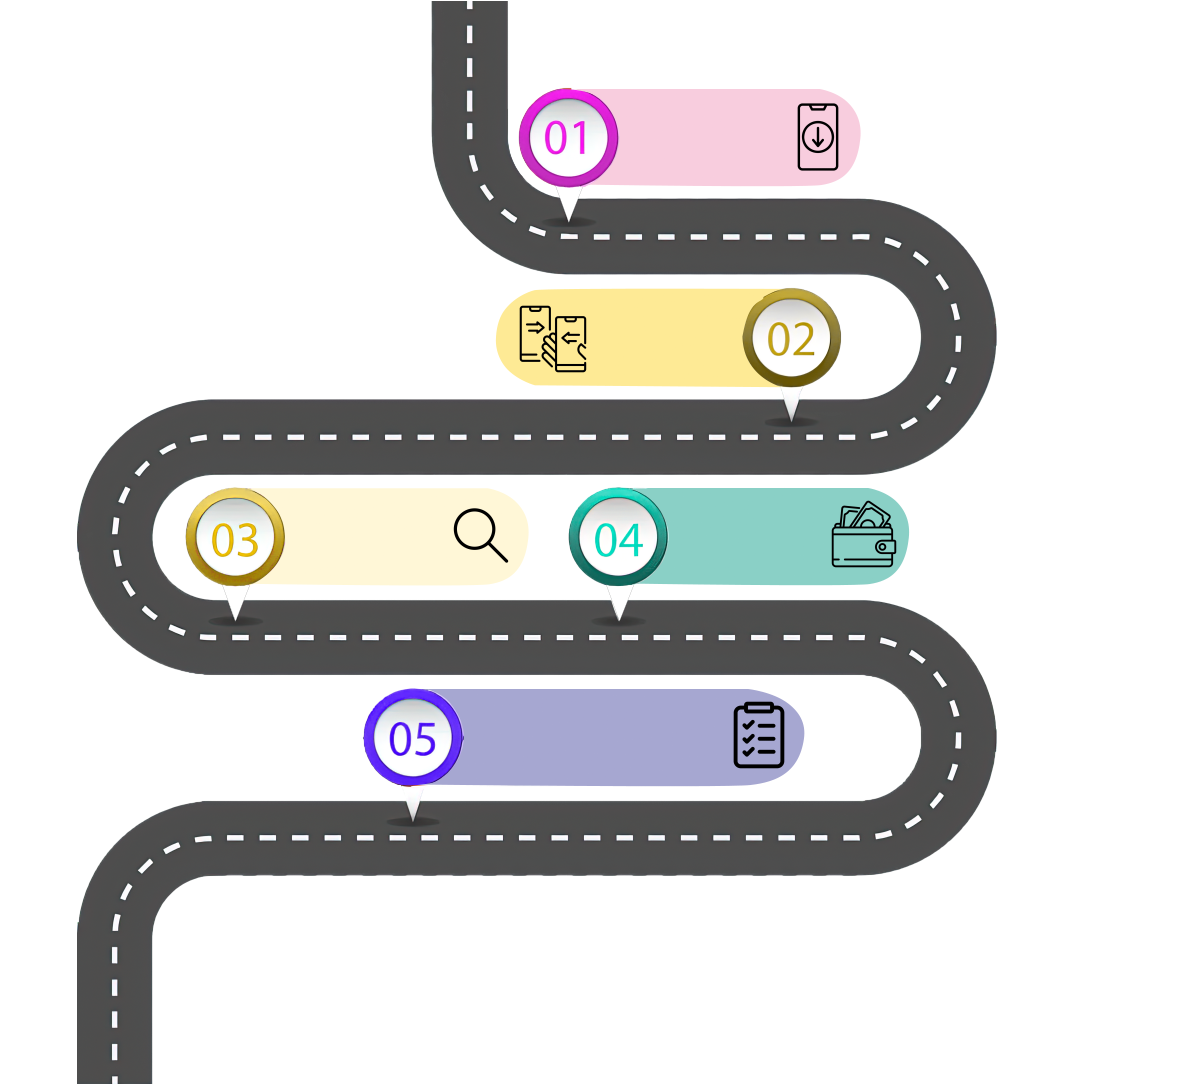
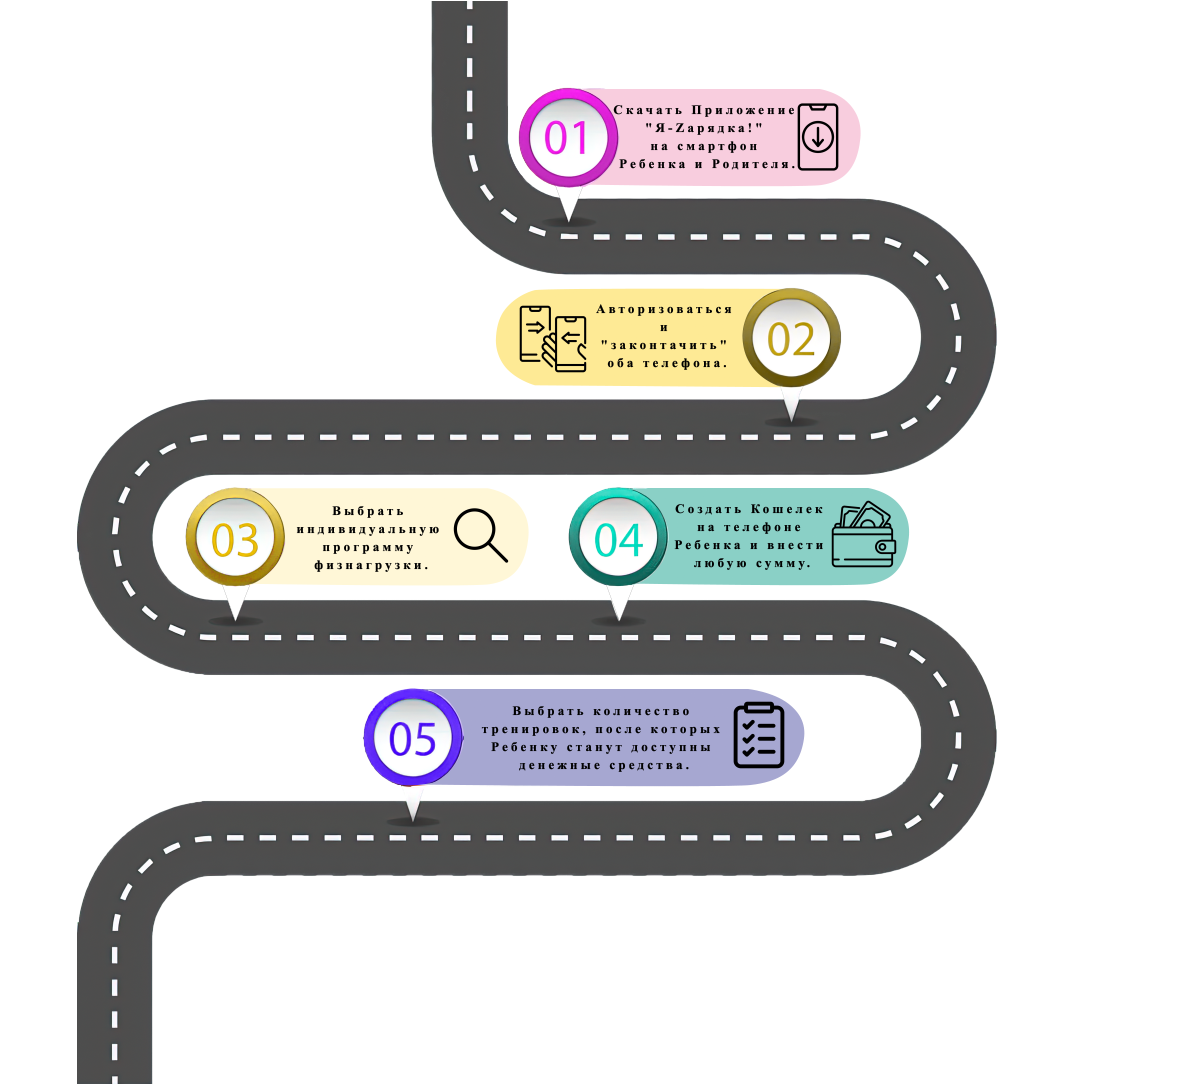
fixed mistackes

diff --git a/index.html b/index.html
@@ -85,16 +85,17 @@
           <div class="col-12 col-sm-6 main__block3-column1">
             <h2 class="main__block3-column1_h2">Давайте карманные деньги</h2>
             <div class="main__block3-column1_italic">просто и с пользой!</div>
-            <div class="main__block3-column1_bold">Приложение проконтролирует и уведомит Вас <br> о выполнении зарядки Вашим ребенком, после <br> чего карманные деньги на день станут доступны.</div>
-            <div class="main__block3-column1_logo"><img src="assets/logo_deti1.png" alt="deti"></div>
+            <div class="main__block3-column1_bold">приложение проконтролирует и уведомит Вас <br> о выполнении зарядки Вашим ребенком, после <br> чего карманные деньги на день станут доступны.</div>
+            <div class="main__block3-column1_logo"><img src="assets/logo_deti.png" alt="deti"></div>
             <div class="main__block3-column1_download">
               <a href="https://www.apple.com/ru/app-store/"><img class="column1_download-app" src="assets/app-store.svg" alt="app_store"></a>
               <a href="https://play.google.com/store/"><img class="column1_download-google" src="assets/google-play.svg" alt="google_play"></a>
             </div>
           </div>
-        <div class="col-12 col-sm-6">
+        <div class="col-12 col-sm-6 main__block3-column2">
           <div class="main__block3-column2_text">Я ХОЧУ ТАКОЕ ПРИЛОЖЕНИЕ, С ЧЕГО НАЧАТЬ?</div>
           <div><img id="road" src="assets/road.png" alt="road"></div>
+          <div><img id="form7" src="assets/form7.png" alt=""></div>
         </div>
       </div>
     </div>
@@ -104,11 +105,11 @@
             <div class="col-lg text-center">
               <img class="description_block_img" src="assets/four_kids.jpg" alt="children" />
             </div>
-            <div class="col-lg align-self-center">
+            <div class="col-lg align-self-center description_block1">
               <h3>Польза зарядки</h3>
-              <p>Безусловную важность для укрепления состояния здоровья ребенка составляет физическая активность. Она
+              <p class="description_block_text">Безусловную важность для укрепления состояния здоровья ребенка составляет физическая активность. Она
                 влияет на формирование всех систем организма, укрепляет иммунитет и закладывает базу для здоровья на всю
-                жизнь. Делая зарядку каждый день по заранее составленной программе, ребенок не только укрепляет свое
+                жизнь.<br> Делая зарядку каждый день по заранее составленной программе, ребенок не только укрепляет свое
                 здоровье, но еще и соблюдает режим дня, становится дисциплинированным и организованным. Благодаря нашему
                 приложению он сможет получить за свои старания приятное вознаграждение в виде карманных денег, которыми
                 сможет научиться грамотно распоряжаться.
@@ -116,11 +117,11 @@
             </div>
           </div>
           <div class="row flex-wrap-reverse">
-            <div class="col-lg align-self-center">
+            <div class="col-lg align-self-center description_block2">
               <h3>Необходимость финансовой грамотности</h3>
-              <p>Обучение финансовой грамотности ребенка – это важный этап воспитания. Чем раньше ребенок научится
-                пользоваться своими карманными деньгами, тем лучше для его будущего. Важно учиться получать деньги,
-                распоряжаться ими, ставить цели, планировать и достигать поставленные задачи. Благодаря нашему
+              <p class="description_block_text">Обучение финансовой грамотности ребенка – это важный этап воспитания.<br> Чем раньше ребенок научится
+                пользоваться своими карманными деньгами, тем лучше для его будущего.<br> Важно учиться получать деньги,
+                распоряжаться ими, ставить цели, планировать и достигать поставленные задачи.<br> Благодаря нашему
                 приложению, дети научатся это делать в легкой игровой форме и с пользой для своего здоровья.</p>
             </div>
             <div class="col-lg text-center">

diff --git a/style/style.css b/style/style.css
@@ -46,7 +46,7 @@
   padding-top: 100px;
 }
 .main__block3-column1 {
-  padding-top: 40px;
+  padding-top: 100px;
 }
 .main__block3-column1_h2 {
   font-weight: bold;
@@ -73,10 +73,23 @@
   padding-left: 100px;
 }
 #road {
-  width: 100%;
+  width: 140%;
   padding-top: 40px;
 }
-
+#form7 {
+  width: 40%;
+  position: absolute;
+  top: 700px;
+  right: 0%;
+}
+.main__block3-road_text1 , .main__block3-road_text2 , .main__block3-road_text3 , .main__block3-road_text4 , .main__block3-road_text5 {
+  font-size: 10px;
+}
+.main__block3-road_text1{
+  position: absolute;
+  right: 265px;
+  top: 115px;
+}
 #testimonial_area {
   padding: 10% 0;
 }
@@ -205,7 +218,7 @@
 
 
 #description_block {
-  background-image: url(/assets/wave_line.png);
+  background: url(../assets/wave_line.png);
   background-position: center;
   background-repeat: no-repeat;
   background-size: 100% 60%;
@@ -213,10 +226,18 @@
 }
 
 .description_block_img {
-  width: 90%;
+  width: 100%;
   border-radius: 20px;
 }
-
+.description_block1 {
+  padding-left: 30px;
+}
+.description_block2 {
+  padding-right: 30px;
+}
+.description_block_text {
+  line-height: 27px;
+}
 
 
 /* Block donations start*/
